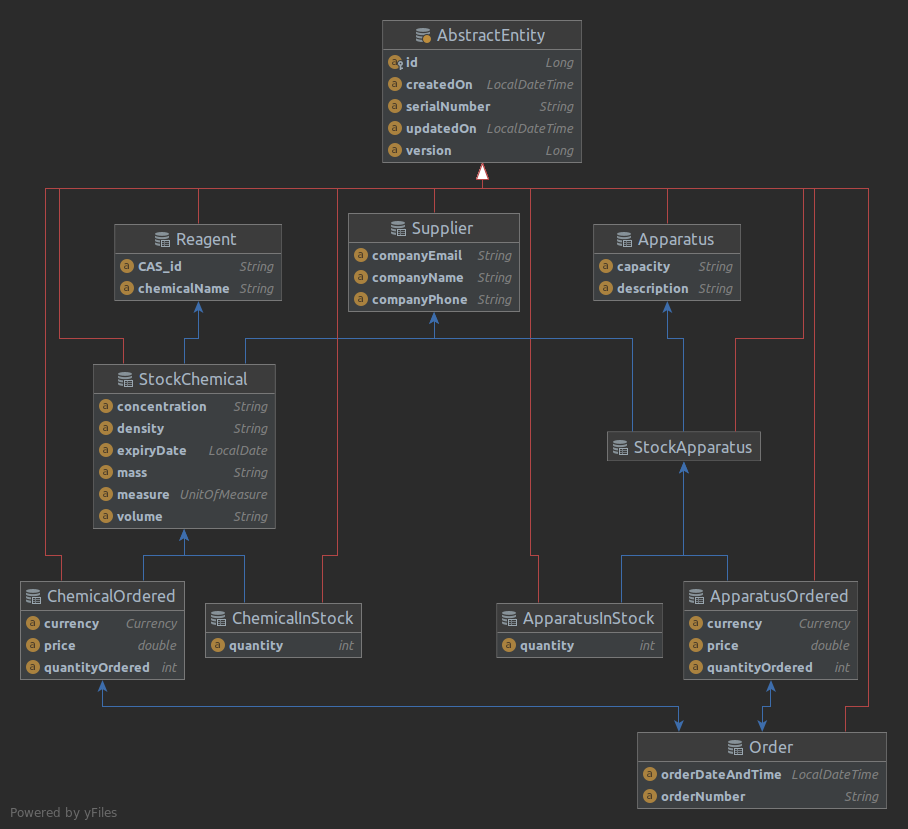
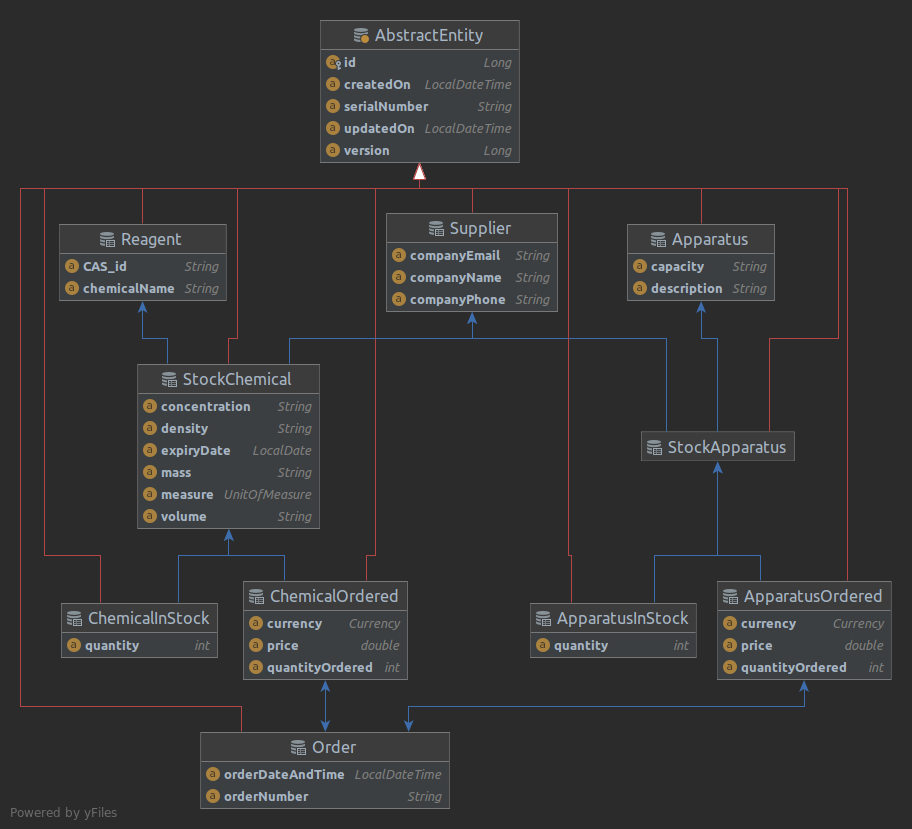
added getAll, getById and (POST) newReagent; updated API README.md and ERD

diff --git a/src/main/java/com/chemstore/resource/ReagentResource.java b/src/main/java/com/chemstore/resource/ReagentResource.java
@@ -1,30 +1,49 @@
 package com.chemstore.resource;
 
+import com.chemstore.model.materials.Reagent;
+import com.chemstore.service.ReagentPersistenceService;
 import com.chemstore.service.ReagentQueryService;
 
 import javax.inject.Inject;
-import javax.ws.rs.GET;
-import javax.ws.rs.Path;
-import javax.ws.rs.PathParam;
-import javax.ws.rs.Produces;
+import javax.ws.rs.*;
+import javax.ws.rs.core.Context;
 import javax.ws.rs.core.Response;
+import javax.ws.rs.core.UriInfo;
+import java.net.URI;
 
 @Path("reagent")
 @Produces("application/json")
+@Consumes("application/json")
 public class ReagentResource {
 
+    @Context
+    private UriInfo uriInfo;
+
+    // use the query service to retrieve data, use the persistence service to save/delete data
     @Inject
     ReagentQueryService reagentQueryService;
 
+    @Inject
+    ReagentPersistenceService reagentPersistenceService;
+
     @GET()
-    @Path("findAll")
+    @Path("reagents")
     public Response getAllReagents() {
         return Response.ok(reagentQueryService.getReagents()).status(Response.Status.OK).build();
     }
 
     @GET()
-    @Path("findById/{id}")
-    public Response getReagentById(@PathParam("id") Long ID) {
+    @Path("reagents/{id}")
+    public Response getReagentById(@PathParam("id") @DefaultValue("0") Long ID) {
         return Response.ok(reagentQueryService.getReagentById(ID)).status(Response.Status.OK).build();
+    }
+
+    @POST()
+    @Path("reagents")
+    public Response newReagent(Reagent reagent){
+        reagentPersistenceService.saveReagent(reagent);
+
+        URI uri = uriInfo.getAbsolutePathBuilder().path(reagent.getId().toString()).build();
+        return Response.created(uri).status(Response.Status.CREATED).build();
     }
 }

diff --git a/src/main/java/com/chemstore/service/ReagentPersistenceService.java b/src/main/java/com/chemstore/service/ReagentPersistenceService.java
@@ -22,21 +22,11 @@ public class ReagentPersistenceService {
     @Inject
     EntityManager entityManager;
 
-    public Reagent saveReagent(Reagent reagent){
+    public void saveReagent(Reagent reagent){
         entityManager.persist(reagent);
-        return reagent;
     }
 
-    public Reagent updateReagent(Reagent reagent){
+    public void updateReagent(Reagent reagent){
         entityManager.merge(reagent);
-        return reagent;
-    }
-
-    public Reagent findReagentById(Long id){
-        return entityManager.find(Reagent.class, id);
-    }
-
-    public List<Reagent> getReagents(){
-        return entityManager.createQuery("SELECT r FROM Reagent r", Reagent.class).getResultList();
     }
 }

diff --git a/README.md b/README.md
@@ -79,7 +79,16 @@ execute `mvn clean package` from the project parent directory. To run the app, e
 
 # EclipseLink
 
-ChemStore uses the EclipseLink ORM with the H2 embedded database.
+ChemStore uses the EclipseLink ORM with the H2 in-memory database. The database is initially void of entities. 
+
+To post new reagents (for example), send POST request to "localhost:5000/api/v1/reagents" with a (raw) JSON in the request body:
+
+```json
+{
+    "CAS_id" : "Some CAS ID",
+    "chemicalName" : "Alcohol"
+}
+```
 
 # Future capabilities of ChemStore
 
